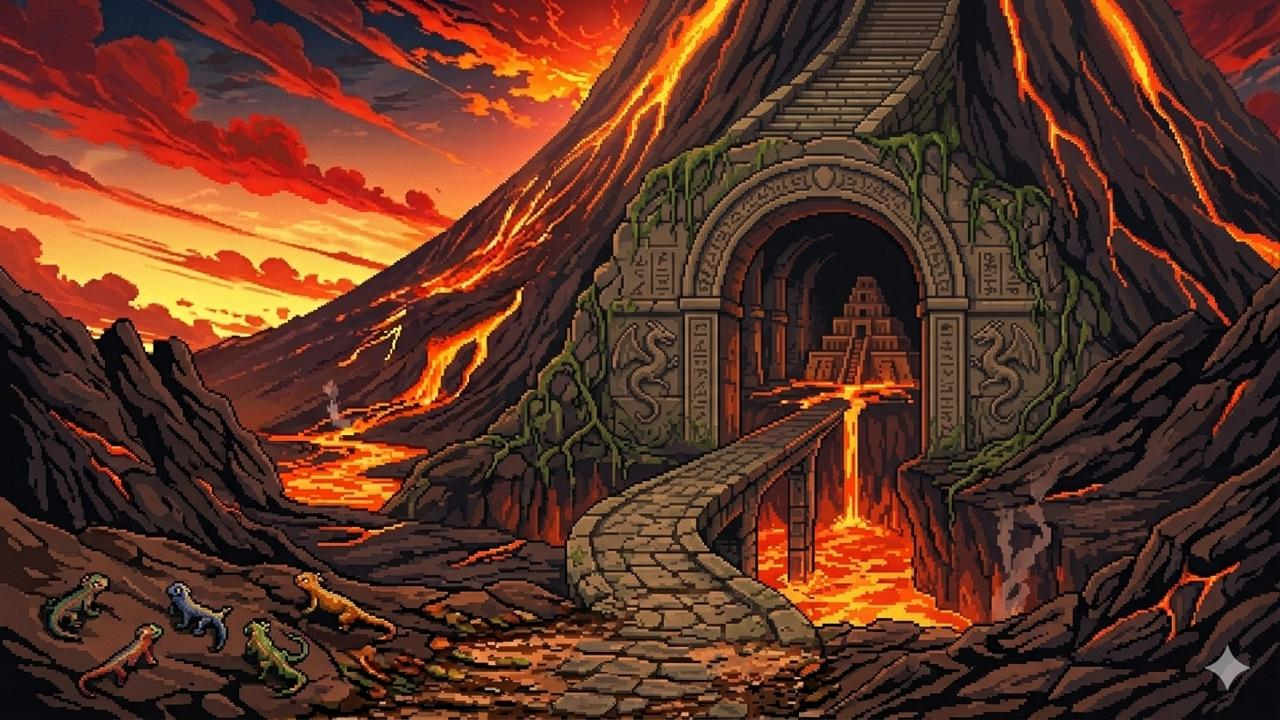
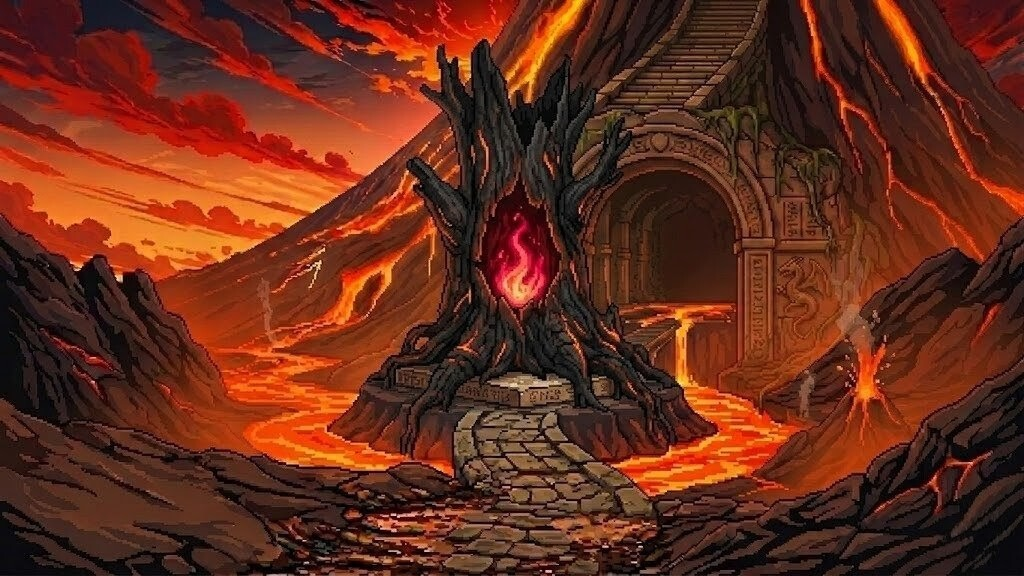
alteração do asset do vulcão e falas do npc ignis

diff --git a/lib/npc_data.dart b/lib/npc_data.dart
@@ -102,19 +102,33 @@ class NpcData {
       ],
     ),
 
-    // --- BIOMA 5: VULCÃO ---
-    // O Vulcão encerra a jornada
+// --- BIOMA 5: VULCÃO ---
+    // Encerra o jogo
     'bioma_05': NpcDialog(
       npcName: 'Ignis, o Espírito do Fogo',
-      message: "Você chegou ao coração do Vulcão. Resolva o último enigma para obter a Chama: 'Sou o que resta quando o fogo se apaga, mas no escuro, sou o que guia os perdidos.'",
+      message: "Você provou seu valor ao chegar ao meu domínio escaldante. Mas o poder não é entregue a qualquer um. Diga-me, mortal: 'Nasço do caos derretido e devoro as sombras, mas uma simples lágrima pode me destruir. Não tenho corpo material, mas danço. O que sou?'",
       choices: [
         DialogChoice(
+          text: 'O Magma', 
+          feedback: 'O magma possui corpo, peso e não morre com uma simples lágrima. Sua mente ainda está nublada pelo calor.', 
+          isCorrect: false
+        ),
+        DialogChoice(
+          text: 'A Fumaça', 
+          feedback: 'A fumaça de fato dança, mas não devora as sombras... ela as cria. Tente novamente.', 
+          isCorrect: false
+        ),
+        DialogChoice(
           text: 'A Chama Mágica',
-          feedback: 'Você provou seu valor! A Chama é sua.',
+          feedback: 'Exato! Você enxergou além da matéria. A Chama Mágica é sua!',
           isCorrect: true,
           conditionToUnlock: 'chama_obtida', // Aciona o final do jogo
         ),
-        DialogChoice(text: 'Cinzas', feedback: 'Quase, mas não.', isCorrect: false),
+        DialogChoice(
+          text: 'A Brasa', 
+          feedback: 'A brasa não dança, ela apenas agoniza antes do seu fim. Pense com mais clareza.', 
+          isCorrect: false
+        ),
       ],
     ),
   };
